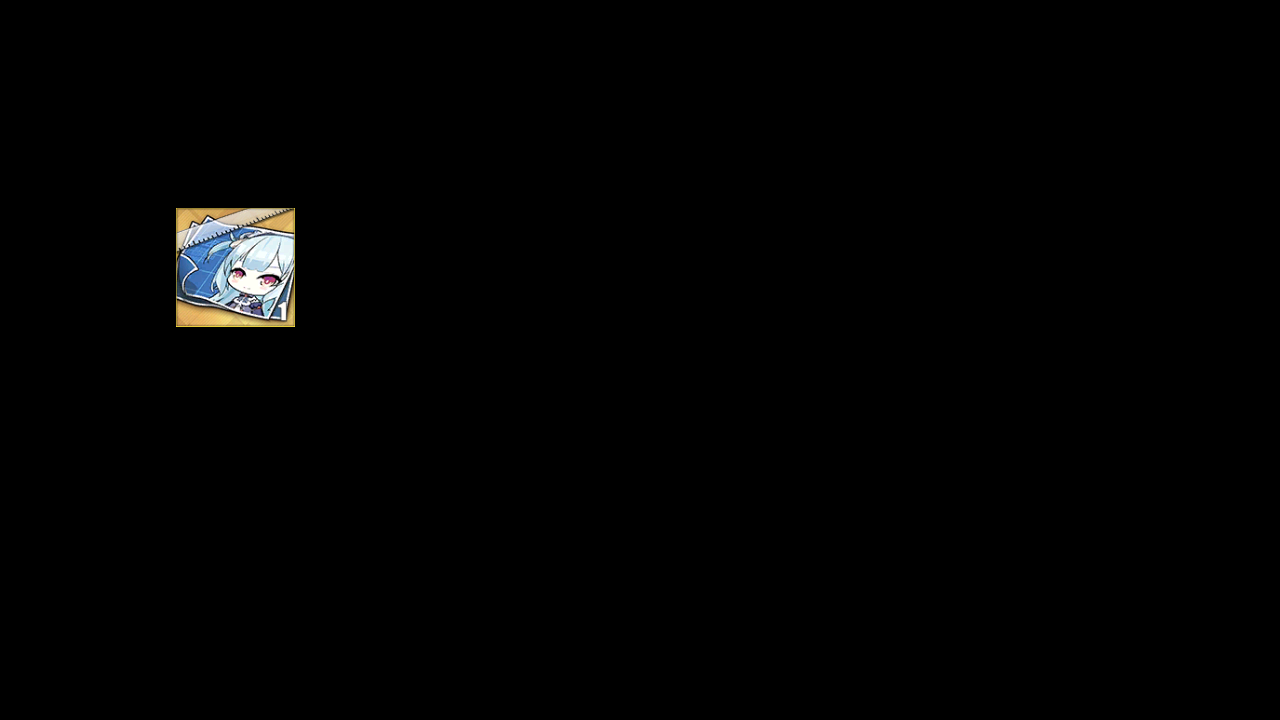
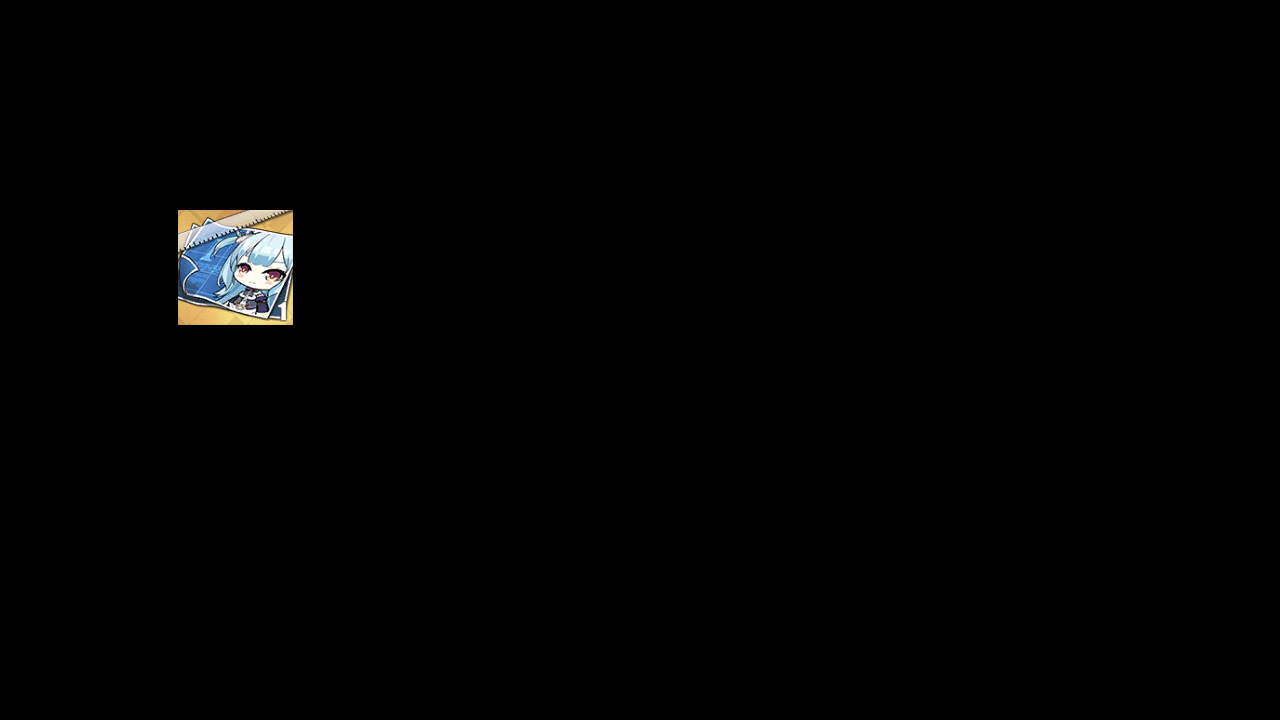
Fix: [JP] VOTE_CANCEL & SHOP_SELECT_PR1 assets

Changed region(s): [[0.125, 0.275, 0.25, 0.4583]]

diff --git a/module/shop/assets.py b/module/shop/assets.py
@@ -22,7 +22,7 @@ SHOP_MERIT = Button(area={'cn': (868, 76, 967, 101), 'en': (868, 76, 967, 101), 
 SHOP_MERIT_CHECK = Button(area={'cn': (766, 75, 793, 102), 'en': (766, 75, 793, 102), 'jp': (843, 75, 870, 101), 'tw': (766, 75, 793, 102)}, color={'cn': (117, 112, 117), 'en': (117, 112, 117), 'jp': (123, 116, 120), 'tw': (117, 112, 117)}, button={'cn': (766, 75, 793, 102), 'en': (766, 75, 793, 102), 'jp': (843, 75, 870, 101), 'tw': (766, 75, 793, 102)}, file={'cn': './assets/cn/shop/SHOP_MERIT_CHECK.png', 'en': './assets/en/shop/SHOP_MERIT_CHECK.png', 'jp': './assets/jp/shop/SHOP_MERIT_CHECK.png', 'tw': './assets/tw/shop/SHOP_MERIT_CHECK.png'})
 SHOP_PROTOTYPE_CHECK = Button(area={'cn': (1002, 66, 1026, 98), 'en': (1002, 66, 1026, 98), 'jp': (1001, 73, 1027, 98), 'tw': (1002, 66, 1026, 98)}, color={'cn': (116, 150, 209), 'en': (116, 150, 209), 'jp': (105, 141, 201), 'tw': (116, 150, 209)}, button={'cn': (1002, 66, 1026, 98), 'en': (1002, 66, 1026, 98), 'jp': (1001, 73, 1027, 98), 'tw': (1002, 66, 1026, 98)}, file={'cn': './assets/cn/shop/SHOP_PROTOTYPE_CHECK.png', 'en': './assets/en/shop/SHOP_PROTOTYPE_CHECK.png', 'jp': './assets/jp/shop/SHOP_PROTOTYPE_CHECK.png', 'tw': './assets/tw/shop/SHOP_PROTOTYPE_CHECK.png'})
 SHOP_REFRESH = Button(area={'cn': (1160, 66, 1269, 110), 'en': (1165, 71, 1264, 105), 'jp': (1185, 72, 1246, 101), 'tw': (1165, 71, 1264, 105)}, color={'cn': (181, 144, 86), 'en': (192, 146, 88), 'jp': (205, 161, 108), 'tw': (192, 146, 88)}, button={'cn': (1160, 66, 1269, 110), 'en': (1165, 71, 1264, 105), 'jp': (1185, 72, 1246, 101), 'tw': (1165, 71, 1264, 105)}, file={'cn': './assets/cn/shop/SHOP_REFRESH.png', 'en': './assets/en/shop/SHOP_REFRESH.png', 'jp': './assets/jp/shop/SHOP_REFRESH.png', 'tw': './assets/tw/shop/SHOP_REFRESH.png'})
-SHOP_SELECT_PR1 = Button(area={'cn': (176, 208, 295, 327), 'en': (176, 208, 295, 327), 'jp': (176, 208, 295, 327), 'tw': (176, 208, 295, 327)}, color={'cn': (162, 165, 158), 'en': (162, 165, 158), 'jp': (162, 165, 158), 'tw': (162, 165, 158)}, button={'cn': (176, 208, 295, 327), 'en': (176, 208, 295, 327), 'jp': (176, 208, 295, 327), 'tw': (176, 208, 295, 327)}, file={'cn': './assets/cn/shop/SHOP_SELECT_PR1.png', 'en': './assets/en/shop/SHOP_SELECT_PR1.png', 'jp': './assets/jp/shop/SHOP_SELECT_PR1.png', 'tw': './assets/tw/shop/SHOP_SELECT_PR1.png'})
+SHOP_SELECT_PR1 = Button(area={'cn': (176, 208, 295, 327), 'en': (176, 208, 295, 327), 'jp': (178, 210, 293, 325), 'tw': (176, 208, 295, 327)}, color={'cn': (162, 165, 158), 'en': (162, 165, 158), 'jp': (159, 164, 159), 'tw': (162, 165, 158)}, button={'cn': (176, 208, 295, 327), 'en': (176, 208, 295, 327), 'jp': (178, 210, 293, 325), 'tw': (176, 208, 295, 327)}, file={'cn': './assets/cn/shop/SHOP_SELECT_PR1.png', 'en': './assets/en/shop/SHOP_SELECT_PR1.png', 'jp': './assets/jp/shop/SHOP_SELECT_PR1.png', 'tw': './assets/tw/shop/SHOP_SELECT_PR1.png'})
 SHOP_SELECT_PR2 = Button(area={'cn': (334, 208, 453, 326), 'en': (334, 208, 453, 326), 'jp': (334, 208, 453, 326), 'tw': (334, 208, 453, 326)}, color={'cn': (166, 166, 158), 'en': (166, 166, 158), 'jp': (166, 166, 158), 'tw': (166, 166, 158)}, button={'cn': (334, 208, 453, 326), 'en': (334, 208, 453, 326), 'jp': (334, 208, 453, 326), 'tw': (334, 208, 453, 326)}, file={'cn': './assets/cn/shop/SHOP_SELECT_PR2.png', 'en': './assets/en/shop/SHOP_SELECT_PR2.png', 'jp': './assets/jp/shop/SHOP_SELECT_PR2.png', 'tw': './assets/tw/shop/SHOP_SELECT_PR2.png'})
 SHOP_SELECT_PR3 = Button(area={'cn': (334, 208, 453, 327), 'en': (334, 208, 453, 327), 'jp': (334, 208, 453, 327), 'tw': (334, 208, 453, 327)}, color={'cn': (161, 162, 153), 'en': (161, 162, 153), 'jp': (161, 162, 153), 'tw': (161, 162, 153)}, button={'cn': (334, 208, 453, 327), 'en': (334, 208, 453, 327), 'jp': (334, 208, 453, 327), 'tw': (334, 208, 453, 327)}, file={'cn': './assets/cn/shop/SHOP_SELECT_PR3.png', 'en': './assets/en/shop/SHOP_SELECT_PR3.png', 'jp': './assets/jp/shop/SHOP_SELECT_PR3.png', 'tw': './assets/tw/shop/SHOP_SELECT_PR3.png'})
 SHOP_SELECT_TOTAL_PRICE = Button(area={'cn': (487, 635, 537, 673), 'en': (487, 635, 537, 673), 'jp': (483, 641, 542, 667), 'tw': (487, 635, 537, 673)}, color={'cn': (73, 76, 86), 'en': (73, 76, 86), 'jp': (95, 97, 106), 'tw': (73, 76, 86)}, button={'cn': (487, 635, 537, 673), 'en': (487, 635, 537, 673), 'jp': (483, 641, 542, 667), 'tw': (487, 635, 537, 673)}, file={'cn': './assets/cn/shop/SHOP_SELECT_TOTAL_PRICE.png', 'en': './assets/en/shop/SHOP_SELECT_TOTAL_PRICE.png', 'jp': './assets/jp/shop/SHOP_SELECT_TOTAL_PRICE.png', 'tw': './assets/tw/shop/SHOP_SELECT_TOTAL_PRICE.png'})

diff --git a/module/handler/assets.py b/module/handler/assets.py
@@ -76,4 +76,4 @@ USER_AGREEMENT_CONFIRM = Button(area={'cn': (709, 526, 742, 542), 'en': (709, 52
 USER_AGREEMENT_SCROLL = Button(area={'cn': (972, 256, 983, 474), 'en': (972, 256, 983, 474), 'jp': (972, 256, 983, 474), 'tw': (972, 256, 983, 474)}, color={'cn': (218, 222, 229), 'en': (218, 222, 229), 'jp': (218, 222, 229), 'tw': (218, 222, 229)}, button={'cn': (972, 256, 983, 474), 'en': (972, 256, 983, 474), 'jp': (972, 256, 983, 474), 'tw': (972, 256, 983, 474)}, file={'cn': './assets/cn/handler/USER_AGREEMENT_SCROLL.png', 'en': './assets/en/handler/USER_AGREEMENT_SCROLL.png', 'jp': './assets/jp/handler/USER_AGREEMENT_SCROLL.png', 'tw': './assets/tw/handler/USER_AGREEMENT_SCROLL.png'})
 USE_DATA_KEY = Button(area={'cn': (688, 316, 781, 338), 'en': (754, 324, 883, 342), 'jp': (625, 318, 742, 344), 'tw': (671, 298, 785, 321)}, color={'cn': (165, 154, 99), 'en': (162, 154, 90), 'jp': (122, 130, 121), 'tw': (160, 153, 103)}, button={'cn': (688, 316, 781, 338), 'en': (754, 324, 883, 342), 'jp': (625, 318, 742, 344), 'tw': (671, 298, 785, 321)}, file={'cn': './assets/cn/handler/USE_DATA_KEY.png', 'en': './assets/en/handler/USE_DATA_KEY.png', 'jp': './assets/jp/handler/USE_DATA_KEY.png', 'tw': './assets/tw/handler/USE_DATA_KEY.png'})
 USE_DATA_KEY_NOTIFIED = Button(area={'cn': (770, 434, 793, 456), 'en': (820, 440, 837, 456), 'jp': (820, 440, 837, 456), 'tw': (820, 440, 837, 456)}, color={'cn': (41, 44, 49), 'en': (33, 40, 41), 'jp': (33, 40, 41), 'tw': (33, 40, 41)}, button={'cn': (770, 434, 793, 456), 'en': (820, 440, 837, 456), 'jp': (820, 440, 837, 456), 'tw': (820, 440, 837, 456)}, file={'cn': './assets/cn/handler/USE_DATA_KEY_NOTIFIED.png', 'en': './assets/en/handler/USE_DATA_KEY_NOTIFIED.png', 'jp': './assets/jp/handler/USE_DATA_KEY_NOTIFIED.png', 'tw': './assets/tw/handler/USE_DATA_KEY_NOTIFIED.png'})
-VOTE_CANCEL = Button(area={'cn': (404, 483, 576, 539), 'en': (413, 489, 566, 532), 'jp': (404, 483, 576, 539), 'tw': (404, 483, 576, 539)}, color={'cn': (167, 169, 171), 'en': (169, 170, 172), 'jp': (167, 169, 171), 'tw': (167, 169, 171)}, button={'cn': (404, 483, 576, 539), 'en': (413, 489, 566, 532), 'jp': (404, 483, 576, 539), 'tw': (404, 483, 576, 539)}, file={'cn': './assets/cn/handler/VOTE_CANCEL.png', 'en': './assets/en/handler/VOTE_CANCEL.png', 'jp': './assets/cn/handler/VOTE_CANCEL.png', 'tw': './assets/cn/handler/VOTE_CANCEL.png'})
+VOTE_CANCEL = Button(area={'cn': (404, 483, 576, 539), 'en': (413, 489, 566, 532), 'jp': (407, 483, 577, 538), 'tw': (404, 483, 576, 539)}, color={'cn': (167, 169, 171), 'en': (169, 170, 172), 'jp': (163, 164, 166), 'tw': (167, 169, 171)}, button={'cn': (404, 483, 576, 539), 'en': (413, 489, 566, 532), 'jp': (407, 483, 577, 538), 'tw': (404, 483, 576, 539)}, file={'cn': './assets/cn/handler/VOTE_CANCEL.png', 'en': './assets/en/handler/VOTE_CANCEL.png', 'jp': './assets/jp/handler/VOTE_CANCEL.png', 'tw': './assets/cn/handler/VOTE_CANCEL.png'})
